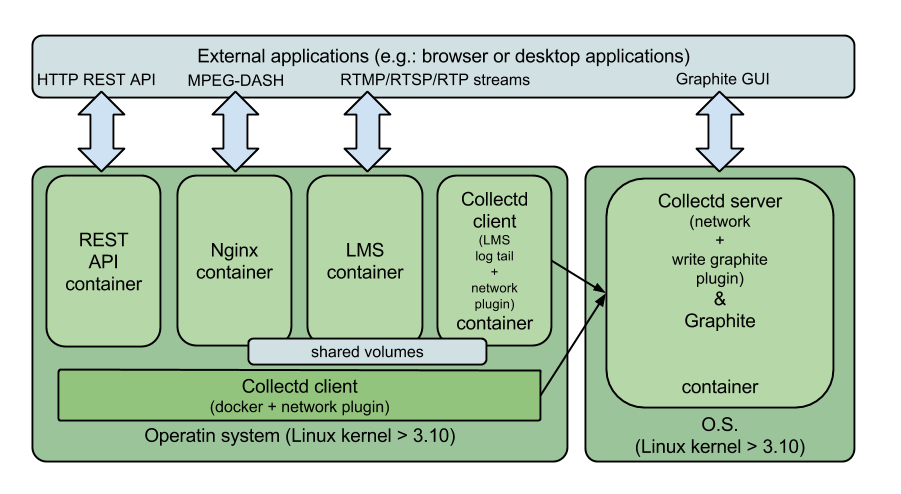
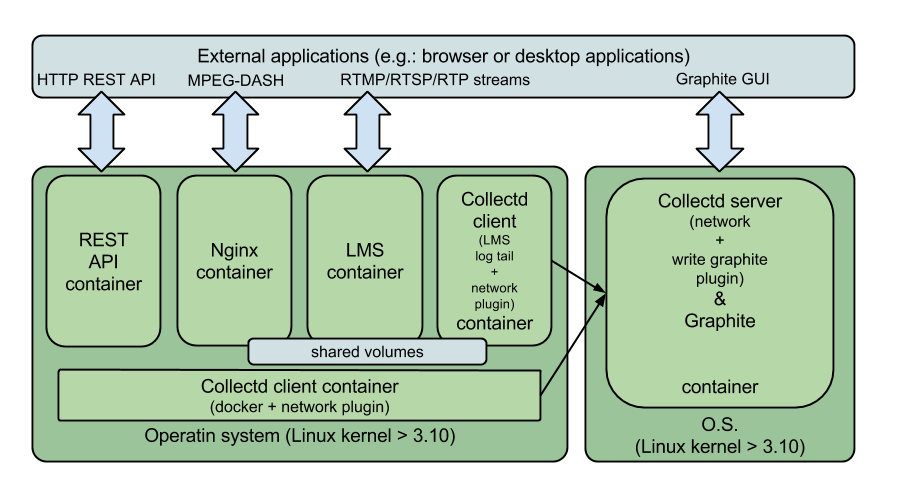
mod docker monitor collector

Changed region(s): [[0.0622, 0.7287, 0.6215, 0.8502]]

diff --git a/chapters/monitoringLayer.tex b/chapters/monitoringLayer.tex
@@ -24,50 +24,6 @@ Figure \ref{F:maex} showcases the relationship between different containers and 
 
 This section is based on how Collectd can be configured and deployed in order to monitor and properly gather metrics of interest.
 
-\subsection{From O.S. point of view}
-
-The fact of using Collectd means a wide community behind, which probably have already developed required functionalities (i.e.: plugins). And this is the case: in order to monitor each of the containers that a host O.S. might have it can be solved by configuring already existing plugins for Collectd from Docker community. 
-
-The selected plugin is using the stats API introduced since Docker 1.5 version. And, concretely, the reported container's stats are:
- 
-\begin{itemize}
-\item Network bandwidth
-\item Memory usage
-\item CPU usage
-\item Block IO
-\end{itemize}
-
-The pluguin is called "docker-collectd-pluguin" and can be found in \href{https://github.com/lebauce/docker-collectd-plugin}{GitHub} (--REFERENCE--).
-
-Therefore, the O.S. system requires having a basic collectd daemon running and to be configured in order to send gathered metrics to a centralized collectd server (as proposed in figure \ref{F:maex}).
-
-So, from O.S. point of view, next example of this specific Collectd's plugins configuration showcases how to load and configure such plugins:
-
-\begin{verbatim}
-
-TypesDB "/usr/share/collectd/docker-collectd-plugin/dockerplugin.db"
-LoadPlugin python
-
-<Plugin python>
-  ModulePath "/usr/share/collectd/docker-collectd-plugin"
-  Import "dockerplugin"
-
-  <Module dockerplugin>
-    BaseURL "unix://var/run/docker.sock"
-    Timeout 3
-  </Module>
-</Plugin>
-
-LoadPlugin network
-<Plugin network>
-  Server "graphite-host-address" "graphite-host-port"
-  ReportStats true
-</Plugin>
-
-\end{verbatim}
-
-Previous Collectd configuration file sets the python (i.e.: docker-collectd-plugin) plugin as an input from the O.S. Docker API daemon and the network plugin as an output to the Collectd server.
-
 \subsection{From container point of view}
 
 From a container point of view and by following the premise to build containers as reusable as possible what is proposed to implement is a container that has the goal to gather the logged stats from an LMS container. This, as shown in figure \ref{F:maex}, implies sharing a Docker volume (as introduced in previous chapter \ref{D:virtualization}) from LMS container to the Collectd client which is using the tail plugin as an input. Moreover, in order to send specific logged metrics to the Collectd server container it is also using the network plugin as done in previous Collectd client configuration.
@@ -157,11 +113,54 @@ This will start immediately sending the defined container stats to the Graphite 
 
 So, this example of deployed container for isolated Collectd clients is a key point in the general monitoring architecture due to the fact of being easyly configurable and reusable.
 
+\subsection{From O.S. point of view}
+
+The fact of using Collectd means a wide community behind, which probably have already developed required functionalities. And this is the case: in order to monitor each of the containers that a host O.S. might have it can be solved by configuring already existing plugins or similar tools for Collectd from Docker community. 
+
+The selected tool is using the stats API introduced since Docker 1.5 version. And, concretely, the reported container's stats are:
+ 
+\begin{itemize}
+\item Network
+\item Memory usage
+\item CPU usage
+\end{itemize}
+
+The pluguin is called "collectd-docker" and its documentation can be found in \href{https://github.com/bobrik/collectd-docker/}{GitHub} (--REFERENCE--). But, in order to follow the idea of clustering Collectd it has been modified in order to use the network plugin instead the write graphite plugin. So, the fact of being running on the same O.S. it requires changing the UDP ports through the metrics are sent by avoiding port binding issues. Moreover, previous Collectd client is also configured as a proxy server by re-configuring the network plugin as shown next: 
+
+\begin{verbatim}
+<Plugin network>
+  Server "{{ GRAPHITE_HOST }}" "{{ GRAPHITE_PORT | default("25826") }}"
+  Listen "*" "25827"
+  Forward true
+  ReportStats true
+</Plugin>
+\end{verbatim}
+
+Therefore, it is not a plugin itself but a Docker container, which listens the docker daemon socket of the system (as proposed in figure \ref{F:maex}) and monitors each one of the containers running.
+
+This container implements the same envtpl python package in order to define specific environment parameters such as the collectd server host and port (check its documentation for a detailed configuration explanation). So, in order to showcase how this and the previous Collect client are interconnected the following Docker run commands are shown:
+
+\begin{itemize}
+\item Collectd tail client (from the container point of view):
+\begin{verbatim}
+docker run -it --rm --name cc -v /home/gerardcl/logs/:/home/lms/logs \
+-p 25826:25826/udp -e "LMS_NAME=lmsAVMixingStats" \
+-e "GRAPHITE_HOST=192.168.1.140" \
+gerardcl/lms-collectd-client
+\end{verbatim}
+\item Collectd docker socket API reader (from the O.S. point of view):
+\begin{verbatim}
+docker run -v /var/run/docker.sock:/var/run/docker.sock \
+-e GRAPHITE_HOST=127.0.0.1 -e COLLECTD_HOST=lmsOS \
+-e COLLECTD_DOCKER_APP=lmsAVMixStats -e GRAPHITE_PORT=25827 \
+-it --rm --name collector --net="container:cc"  \
+gerardcl/lms-collectd-collector
+\end{verbatim}
+\end{itemize}
+
+So, here, what is done in order to avoid port binding issues is to setup the Docker collectd collector container to use the same network environment of the Collectd tail client.
+
 \section{Showcasing monitoring}
-
-container amb graphite + collectd server
-
-mostrar com es genera tot (referències a fitxers externs??) i imatges del graphite o escenari sencer. amb exemples concrets mostrant potencial de graphite!!!
 
 This section is focused on the storage and presentation side of the metrics already logged and gathered.
 

diff --git a/chapters/platformDeploymentAndDemonstrations.tex b/chapters/platformDeploymentAndDemonstrations.tex
@@ -1,6 +1,6 @@
 \chapter{Platform deployment and demonstrations}\label{H:platformDeploymentAndDemonstrations}
 
-In order to demonstrate that the LiveMediaStreamer is a suitable tool to be used as the core framework of a cloud real-time media production platform it's required to showcase how it performs over the cloud. Therefore, it's important to demonstrate how it performs over the proposed architecture. So, previous chapters will implicitly help to deploy and demonstrate it.
+In order to demonstrate that the LiveMediaStreamer is a suitable tool to be used as the core framework of a cloud real-time media production platform it's required to showcase how it performs over the cloud. Therefore, it's important to demonstrate how it performs over the proposed architecture. And, previous chapters have implicitly helped to deploy and demonstrate it as shown in this chapter.
 
 \section{Platform deployment}
 
@@ -18,20 +18,57 @@ In this scenario deployment LMS is configured to act as a transcoder service. Th
 This scenario deployment aims to showcase a suitable and a as much generic as possible cloud real-time media production scenario. Therefore, it is proposed to configure LMS to receive eight streams (i.e.: four audio and four video streams), mix them and transmit them through RTP/RTSP and MPEG-DASH. 
 \end{itemize}
 
-EXPLICAR L'ENTORN ON ES FARAN ELS DESPLEGAMENTS (MÀQUINA, CPU, RAM, OS,....)
+The environment where the deployments are done has the following characteristics:
+
+\begin{table}[htb]
+\caption{Deployment environment characteristics}
+\begin{center}
+\begin{tabular}{|c|c|}
+\hline
+{\bf Parameter} & {\bf Value} \\ \hline \hline
+Hardware type        & Sony Vayo laptop \\ \hline
+CPU        & Intel core i7-3632QM at 2.20 GHz  \\ \hline
+RAM        & 6 GB (4 + 2) DDR3 \\ \hline
+Operating system        & XUbuntu 14.04 - 64 bits (x86 64)  \\ \hline
+Kernel version        & 3.13.0-55-generic  \\ \hline
+Docker version        & 1.6.8  \\ \hline
+\end{tabular}
+\label{T:dec}
+\end{center}
+\end{table}
+
+As seen, the deployment hasn't been carried out in any type of specific server or high performance environment. This is mainly due to demonstrate characteristics such as flexibility on the deployment (i.e.: in a laptop) and portability of the platform (not only the cloud itself). And, all of these characteristics are achieved thanks to the performance of the platform itself and, concretely, the LMS (the core).
 
 \subsection{Isolated demonstrations}
 
-In order to demonstrate results of interest what is done is to implement a C/C++ script which configures the LMS framework as shown in figure XXX. Moreover, in order to test how it performs the pipeline metrics are logged once per second (i.e.: pipeline losses and delay) and gathered by a Collectd client container properly configured. Then the Collectd client sends the data to the Graphite container. 
+In order to demonstrate results of interest what is done is to implement a C/C++ script which configures the LMS framework as shown in figure \ref{F:idsc}. Moreover, in order to test how it performs the pipeline metrics are logged once per second (i.e.: pipeline losses and delay) and gathered by a Collectd client container properly configured. Then the Collectd client sends the data to the Graphite container. 
 
-FIGURE XXX (MOSTRAR CODECS I PARÀMETRES, IDS, ETC...)
+\begin{figure}[htb]
+\begin{center}
+\includegraphics[width=0.95\textwidth]{./images/isolatedScenario.png}
+\caption{Isolated demonstration's scenario configuration}
+\label{F:idsc}
+\end{center}
+\end{figure}
 
-The Collectd client container, which reads from the volume where the LMS container is logging its metrics, is using the "tail" plugin (previously explained in chapter \ref{G:monitoringLayer}) with specific regular expressions, as shown next:
+The Collectd client container, which reads from the volume where the LMS container is logging its metrics, is using the "tail" plugin (previously explained in chapter \ref{G:monitoringLayer}) with specific regular expressions in order to parse the metrics from the LMS logs (See APPENDIX XXX for this specific collectd configuration)
 
-COLLECTD CLIENT CONFIGURATION
+So, both isolated scenarios are the same but one is running the LMS on the system and the other is running the same configure LMS but containerized.
 
-
+EXPLICACIÓ ESCENARI (les fonts venen del mateix pc player - un mac amb linux) I 
+RESULTATS
 
 
 \subsection{Generic scenario demonstration}
 
+This last scenario aims to be a generic and basic example demonstration of audio and video production in a cloud environment. Figure \ref{F:gdsc}
+
+
+
+\begin{figure}[htb]
+\begin{center}
+\includegraphics[width=0.95\textwidth]{./images/genericScenario.png}
+\caption{Generic demonstration's scenario configuration}
+\label{F:gdsc}
+\end{center}
+\end{figure}
